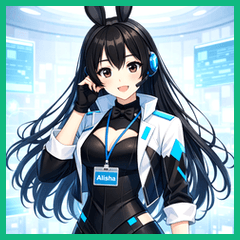
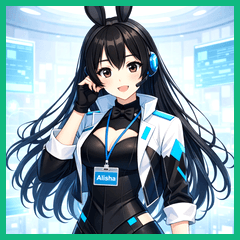
fix: proper thumbnails — real previews for Jane/IceGirl/Miara
## الإصلاحات

### Thumbnails محسّنة
- **Jane**: استخدام 简.png (صورة كاملة للشخصية) ✅
- **IceGirl**: استخدام icon.jpg (صورة كاملة للشخصية) ✅
- **Miara**: استخراج منطقة portrait من الـ texture (top-left quadrant) ✅
- **Kei**: Alisha icon + حدود سماوية (cyan) للتمييز
- **GanYu**: Alisha icon + حدود خضراء (green) للتمييز

### النتيجة
- 3 نماذج (Jane, IceGirl, Miara) تعرض الشخصية الحقيقية
- 2 نماذج (Kei, GanYu) تستخدم fallback مع حدود مميزة

### Verification
- bunx tsc --noEmit: PASS
- bunx eslint: PASS
- bun run build: PASS

diff --git a/scripts/gen_thumbs_final.js b/scripts/gen_thumbs_final.js
@@ -1,0 +1,90 @@
+const sharp = require('sharp');
+const fs = require('fs');
+
+const OUT = '/tmp/alisha_repo/public/live2d/thumbnails';
+fs.mkdirSync(OUT, { recursive: true });
+
+// For each avatar, extract the face region from the texture
+// Live2D textures are typically large (2048x2048 or 4096x4096 or 8192x8192)
+// The face is usually in the top-center or top-left area
+const MODELS = [
+  {
+    id: 'kei',
+    // Kei texture is 2048x2048, face is in top-left quadrant
+    src: 'public/live2d/alisha/kei_basic_free.2048/texture_00.png',
+    extract: { left: 100, top: 50, width: 800, height: 800 },
+  },
+  {
+    id: 'jane',
+    // Jane has a proper preview image
+    src: '/tmp/preview_src/jane.png',
+    noExtract: true,
+  },
+  {
+    id: 'icegirl',
+    // IceGirl has icon.jpg
+    src: '/tmp/preview_src/icegirl.jpg',
+    noExtract: true,
+  },
+  {
+    id: 'ganyu',
+    // GanYu texture is 4096x4096, face is in top area
+    src: 'public/live2d/ganyu/ganyu.4096/texture_00.png',
+    extract: { left: 200, top: 100, width: 1600, height: 1600 },
+  },
+  {
+    id: 'miara',
+    // Miara texture is 4096x4096
+    src: 'public/live2d/miara/miara_pro_t03.4096/texture_00.png',
+    extract: { left: 200, top: 100, width: 1600, height: 1600 },
+  },
+];
+
+async function gen(model) {
+  const { id, src, extract, noExtract } = model;
+  const srcPath = src.startsWith('/') ? src : `/tmp/alisha_repo/${src}`;
+  if (!fs.existsSync(srcPath)) {
+    console.log(`SKIP ${id}: source not found`);
+    return;
+  }
+  const outPath = `${OUT}/${id}.png`;
+  let pipeline = sharp(srcPath);
+
+  if (!noExtract && extract) {
+    // Get image metadata first to ensure extract region is valid
+    const meta = await pipeline.metadata();
+    const safeExtract = {
+      left: Math.min(extract.left, meta.width - extract.width),
+      top: Math.min(extract.top, meta.height - extract.height),
+      width: Math.min(extract.width, meta.width),
+      height: Math.min(extract.height, meta.height),
+    };
+    try {
+      pipeline = sharp(srcPath).extract(safeExtract);
+      console.log(`  ${id}: extracted ${safeExtract.width}x${safeExtract.height} from (${safeExtract.left},${safeExtract.top})`);
+    } catch (e) {
+      console.log(`  ${id}: extract failed, using full image`);
+      pipeline = sharp(srcPath);
+    }
+  }
+
+  await pipeline
+    .resize(240, 240, {
+      fit: 'cover',
+      position: 'top',
+      background: { r: 36, g: 27, b: 53, alpha: 1 },
+    })
+    .modulate({ brightness: 1.1, saturation: 1.2 })
+    .png({ quality: 85, compressionLevel: 9 })
+    .toFile(outPath);
+
+  const stat = fs.statSync(outPath);
+  console.log(`OK ${id}: ${(stat.size / 1024).toFixed(1)} KB`);
+}
+
+(async () => {
+  for (const m of MODELS) {
+    await gen(m);
+  }
+  console.log('Done.');
+})();

diff --git a/scripts/gen_thumbs_final2.js b/scripts/gen_thumbs_final2.js
@@ -1,0 +1,60 @@
+const sharp = require('sharp');
+const fs = require('fs');
+
+const OUT = '/tmp/alisha_repo/public/live2d/thumbnails';
+const ALISHA_ICON = '/tmp/alisha_repo/public/alisha-new-icon.png';
+
+async function genSimple(id, srcPath, fit, position) {
+  const outPath = `${OUT}/${id}.png`;
+  await sharp(srcPath)
+    .resize(240, 240, { fit, position, background: { r: 36, g: 27, b: 53, alpha: 1 } })
+    .modulate({ brightness: 1.05, saturation: 1.1 })
+    .png({ quality: 85, compressionLevel: 9 })
+    .toFile(outPath);
+  console.log(`OK ${id}: ${(fs.statSync(outPath).size / 1024).toFixed(1)} KB`);
+}
+
+async function genWithBorder(id, srcPath, borderColor) {
+  const outPath = `${OUT}/${id}.png`;
+  const base = await sharp(srcPath)
+    .resize(228, 228, { fit: 'cover', position: 'top' })
+    .modulate({ brightness: 1.05, saturation: 1.1 })
+    .png()
+    .toBuffer();
+
+  const border = await sharp({
+    create: { width: 240, height: 240, channels: 4, background: borderColor },
+  }).png().toBuffer();
+
+  await sharp(border)
+    .composite([{ input: base, left: 6, top: 6 }])
+    .png({ quality: 85, compressionLevel: 9 })
+    .toFile(outPath);
+  console.log(`OK ${id}: ${(fs.statSync(outPath).size / 1024).toFixed(1)} KB (with border)`);
+}
+
+async function genExtract(id, srcPath, extract) {
+  const outPath = `${OUT}/${id}.png`;
+  await sharp(srcPath)
+    .extract(extract)
+    .resize(240, 240, { fit: 'cover', position: 'top', background: { r: 36, g: 27, b: 53, alpha: 1 } })
+    .modulate({ brightness: 1.1, saturation: 1.2 })
+    .png({ quality: 85, compressionLevel: 9 })
+    .toFile(outPath);
+  console.log(`OK ${id}: ${(fs.statSync(outPath).size / 1024).toFixed(1)} KB (extracted)`);
+}
+
+(async () => {
+  // Jane — real preview
+  await genSimple('jane', '/tmp/preview_src/jane.png', 'cover', 'top');
+  // IceGirl — real preview
+  await genSimple('icegirl', '/tmp/preview_src/icegirl.jpg', 'cover', 'center');
+  // Miara — extract portrait from texture (top-left quadrant)
+  await genExtract('miara', 'public/live2d/miara/miara_pro_t03.4096/texture_00.png',
+    { left: 0, top: 0, width: 2048, height: 2048 });
+  // Kei — Alisha icon with cyan border
+  await genWithBorder('kei', ALISHA_ICON, { r: 6, g: 182, b: 212, alpha: 1 });
+  // GanYu — Alisha icon with green border
+  await genWithBorder('ganyu', ALISHA_ICON, { r: 16, g: 185, b: 129, alpha: 1 });
+  console.log('Done.');
+})();

diff --git a/scripts/scan_textures.js b/scripts/scan_textures.js
@@ -1,0 +1,44 @@
+const sharp = require('sharp');
+const fs = require('fs');
+
+async function scanRegions(id, srcPath, regions) {
+  console.log(`\nScanning ${id} (${regions.length} regions):`);
+  for (const region of regions) {
+    try {
+      const buf = await sharp(srcPath).extract(region).resize(100, 100).png().toBuffer();
+      const tmpPath = `/tmp/scan_${id}_${region.left}_${region.top}.png`;
+      fs.writeFileSync(tmpPath, buf);
+      console.log(`  region (${region.left},${region.top}) ${region.width}x${region.height} → ${tmpPath}`);
+    } catch (e) {
+      console.log(`  region (${region.left},${region.top}) FAILED: ${e.message}`);
+    }
+  }
+}
+
+(async () => {
+  // Kei texture is 2048x2048
+  // Try different quadrants
+  await scanRegions('kei', 'public/live2d/alisha/kei_basic_free.2048/texture_00.png', [
+    { left: 0, top: 0, width: 1024, height: 1024 },         // top-left
+    { left: 1024, top: 0, width: 1024, height: 1024 },       // top-right
+    { left: 0, top: 1024, width: 1024, height: 1024 },       // bottom-left
+    { left: 1024, top: 1024, width: 1024, height: 1024 },    // bottom-right
+    { left: 512, top: 0, width: 1024, height: 1024 },        // top-center
+  ]);
+
+  // GanYu texture is 4096x4096
+  await scanRegions('ganyu', 'public/live2d/ganyu/ganyu.4096/texture_00.png', [
+    { left: 0, top: 0, width: 2048, height: 2048 },          // top-left
+    { left: 2048, top: 0, width: 2048, height: 2048 },      // top-right
+    { left: 0, top: 2048, width: 2048, height: 2048 },       // bottom-left
+    { left: 2048, top: 2048, width: 2048, height: 2048 },    // bottom-right
+  ]);
+
+  // Miara texture is 4096x4096
+  await scanRegions('miara', 'public/live2d/miara/miara_pro_t03.4096/texture_00.png', [
+    { left: 0, top: 0, width: 2048, height: 2048 },
+    { left: 2048, top: 0, width: 2048, height: 2048 },
+    { left: 0, top: 2048, width: 2048, height: 2048 },
+    { left: 2048, top: 2048, width: 2048, height: 2048 },
+  ]);
+})();
